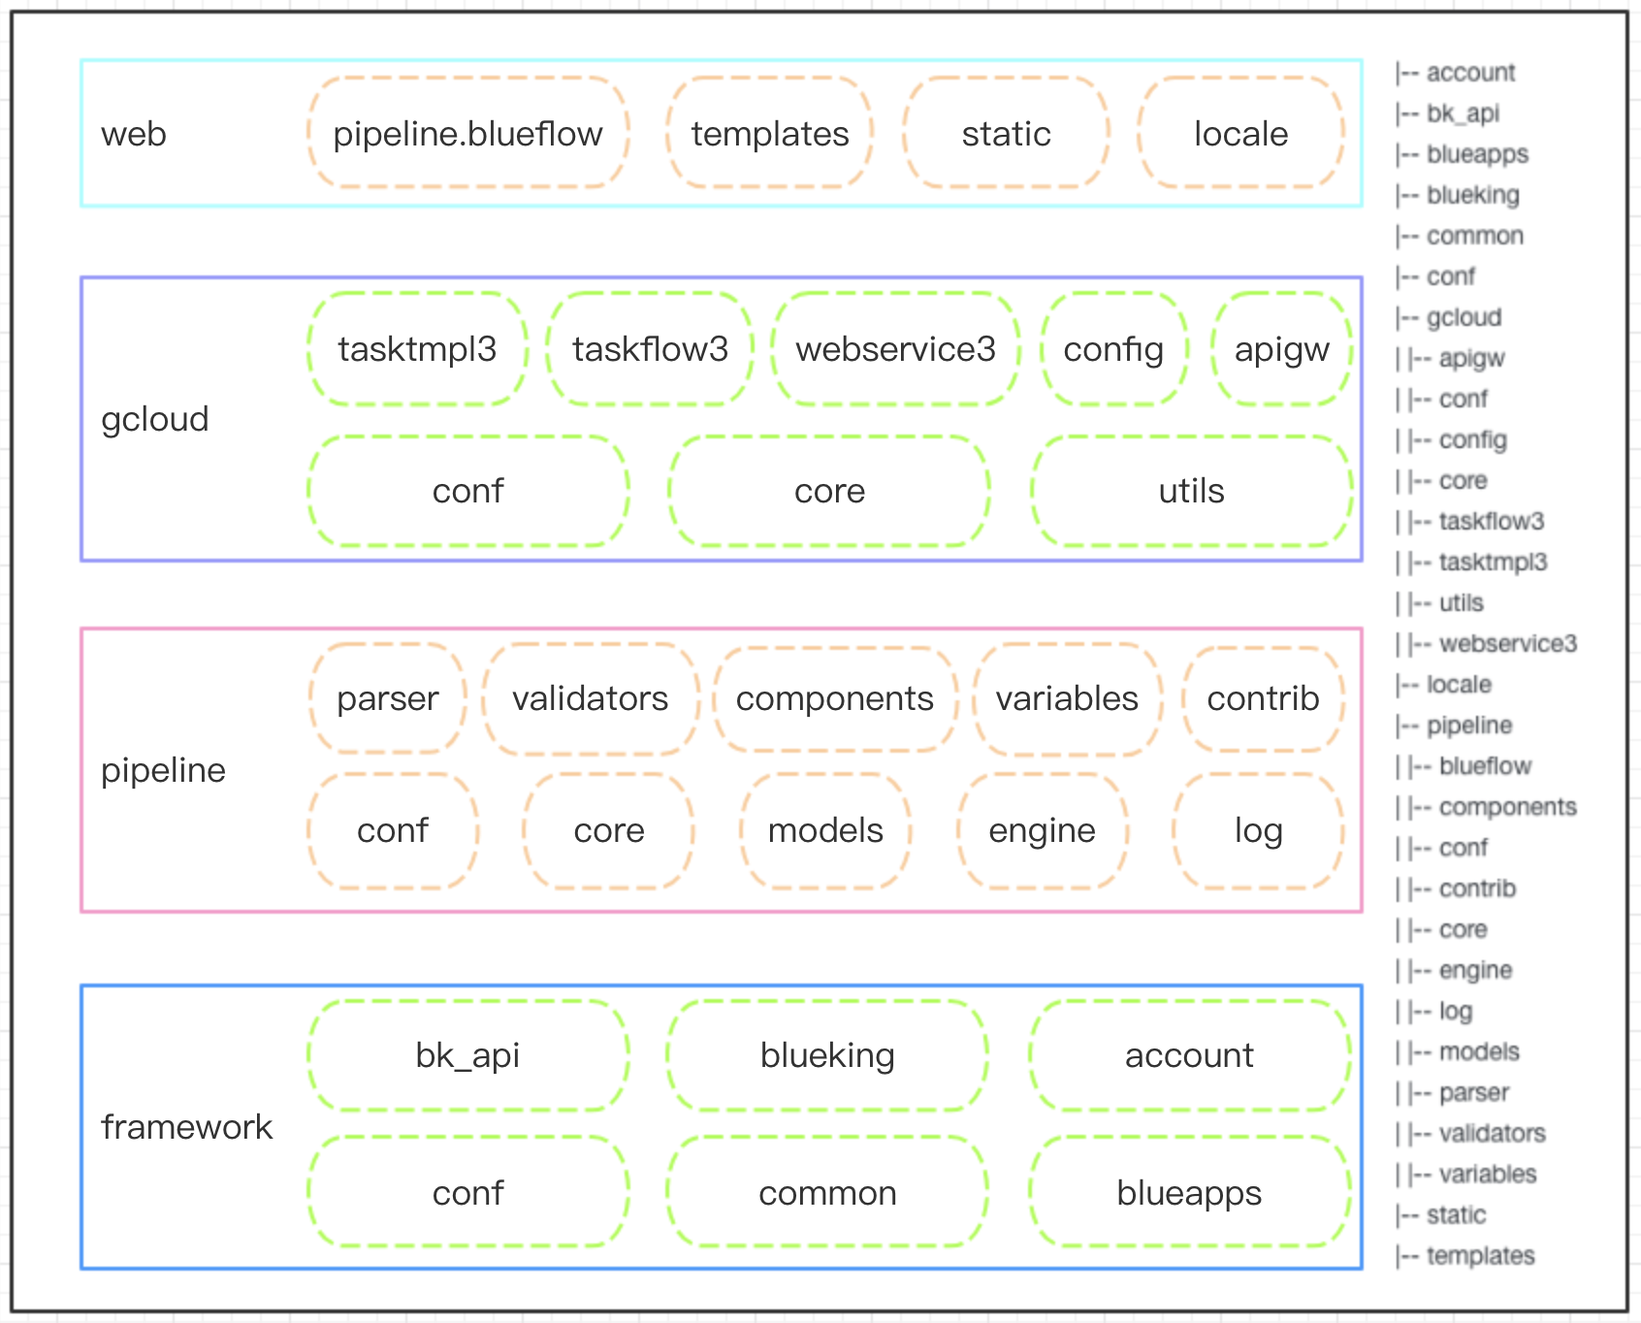
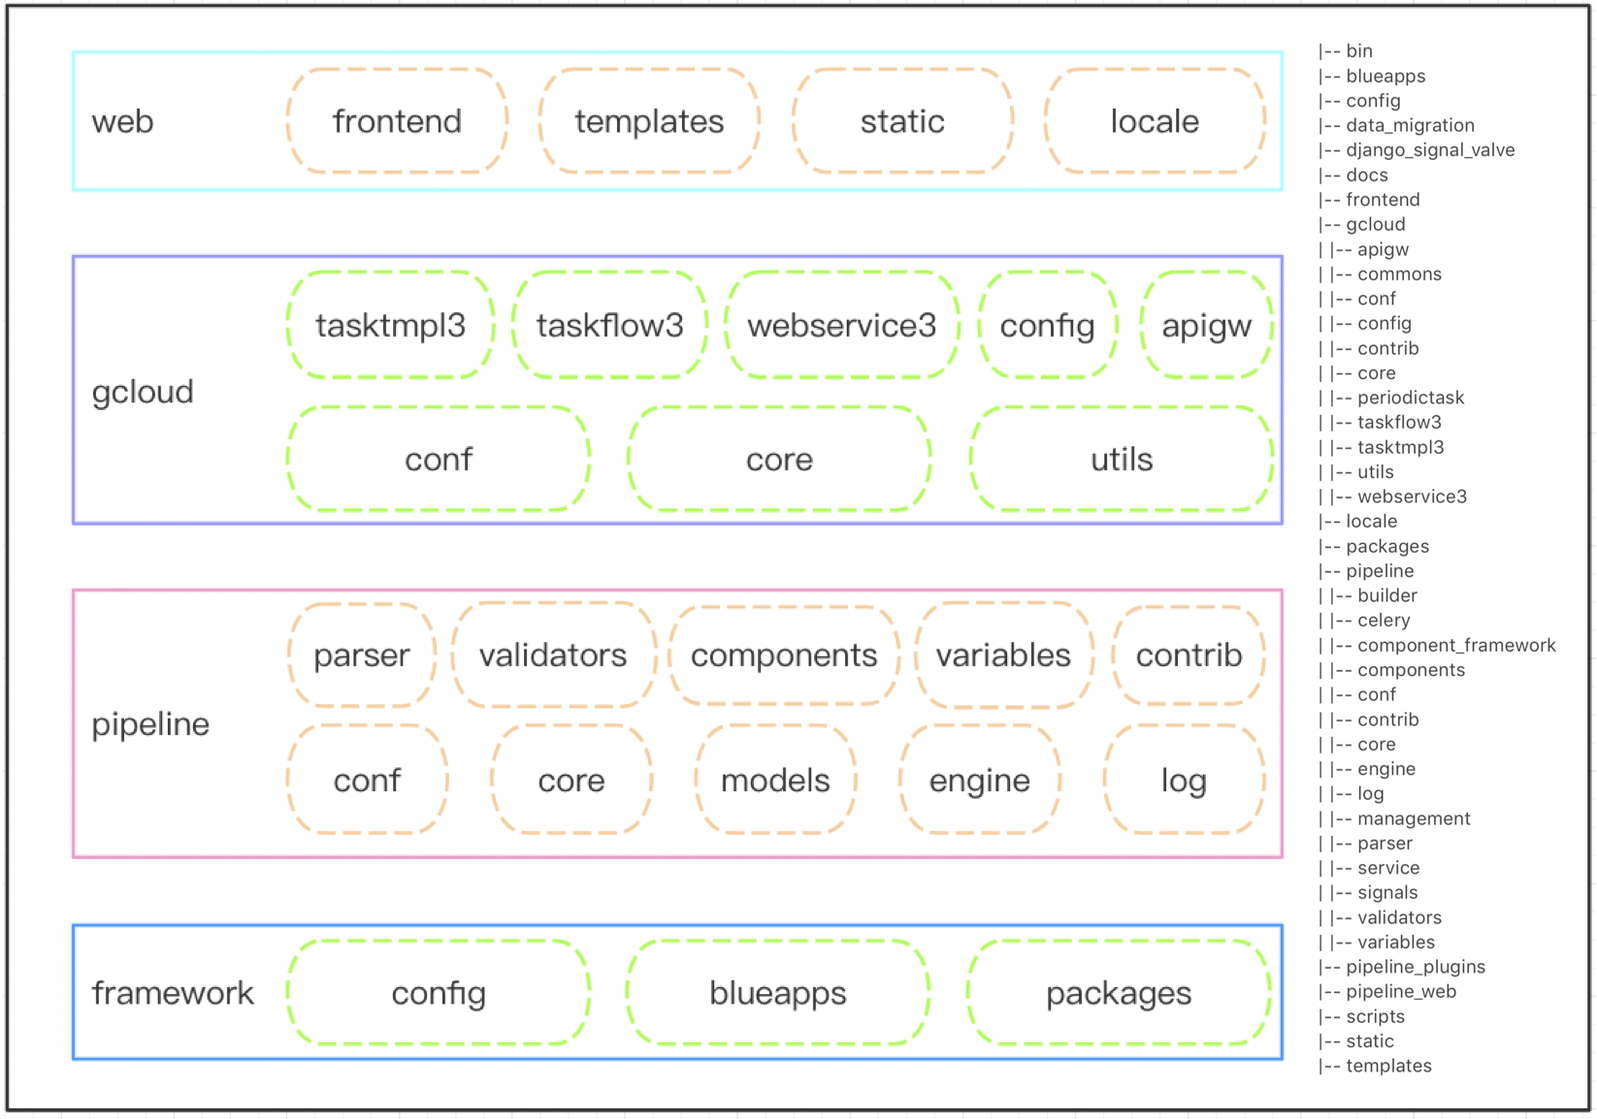
improve: 前端项目工程文件目录修改后文档同步 #153

Changed region(s): [[0.0, 0.0, 1.0, 0.9983]]

diff --git a/docs/install/dev_web.md b/docs/install/dev_web.md
@@ -4,22 +4,22 @@
 标准运维前端是用 vue 框架开发的，在本地开发时需要先安装 node.js，直接去官网下载软件并安装即可，地址为：https://nodejs.org/en/。
 
 ## 安装依赖包  
-进入 pipeline/blueflow/，执行以下命令安装。
+进入 frontend/desktop/，执行以下命令安装。
 ```bash
 npm install
 ```
 
 ## 修改配置文件  
-把 pipeline/blueflow/ 中的所有文件中的 {BK_PAAS_HOST} 换成你部署的蓝鲸社区版地址，如果你的应用 ID 修改过，请把所有文件中的 bk_sops 改成你的新应用 ID。
+把 frontend/desktop/ 中的所有文件中的 {BK_PAAS_HOST} 换成你部署的蓝鲸社区版地址，如果你的应用 ID 修改过，请把所有文件中的 bk_sops 改成你的新应用 ID。
 
 ## 启动前端工程  
-进入 bk_sops/src/pipeline/blueflow/，执行以下命令运行前端工程。默认启动的是 9000 端口，然后通过 http://dev.{BK_PAAS_HOST}:9000/ 访问前端应用，此时后端请求会自动转发到你启动的 django 工程，即 8000 端口。
+进入 bk_sops/src/frontend/desktop/，执行以下命令运行前端工程。默认启动的是 9000 端口，然后通过 http://dev.{BK_PAAS_HOST}:9000/ 访问前端应用，此时后端请求会自动转发到你启动的 django 工程，即 8000 端口。
 ```bash
 npm run dev
 ```
 
 ## 开发后打包  
-前端开发完成后，正式发布前需要先打包。还是在 pipeline/blueflow/ 目录下，执行如下命令打包，会自动在当前目录下生成 static/dist/ 目录，即打包好的前端资源。 
+前端开发完成后，正式发布前需要先打包。还是在 frontend/desktop/ 目录下，执行如下命令打包，会自动在当前目录下生成 static/dist/ 目录，即打包好的前端资源。 
 
 ```bash
 npm run build -- --SITE_URL="/o/bk_sops" --STATIC_ENV="open/prod"
@@ -29,6 +29,6 @@ npm run build -- --SITE_URL="/o/bk_sops" --STATIC_ENV="open/prod"
 前端打包后，需要在工程目录下运行如下命令收集静态资源到 static 下。
 ```bash
 rm -rf static/open static/images
-mv pipeline/blueflow/static/open static/
-mv pipeline/blueflow/static/images static/
+mv frontend/desktop/static/open static/
+mv frontend/desktop/static/images static/
 ```

diff --git a/docs/overview/code_structure.md b/docs/overview/code_structure.md
@@ -6,21 +6,15 @@
 
 - framework
 
-  蓝鲸基于 django 框架的二次封装架构，主要提供 saas 运营在蓝鲸 paas 上的基础配置和服务。
+  蓝鲸基于 django 框架的二次封装架构，主要提供 SaaS 运营在蓝鲸 PaaS 上的基础配置和服务。
 
-  conf：工程各部署环境配置，如本地环境、测试环境、正式环境。
+  config：工程各部署环境配置，如本地环境、测试环境、正式环境，以及路由配置。
 
-  common：主要是一些公共函数。
+  blueapps：新版开发框架核心模块，包括蓝鲸统一登录、鉴权、中间件和公共函数。
 
-  blueapps：也是一些公共函数，单独作为一个模块主要是为了向后兼容新版开发框架。
+  packages：蓝鲸 API Gateway SDK，包括配置平台、作业平台等提供的API。
 
-  bk_api：蓝鲸 paas 提供的 API。
-
-  blueking：蓝鲸 API Gateway SDK，包括配置平台、作业平台等提供的API。
-
-  account：蓝鲸统一登录和鉴权。
-
-- pipeline
+- pipeline、pipeline_web、pipeline_plugins
 
   自研的流程引擎框架，主要包含任务流程编排页面和任务流程执行服务。
 
@@ -38,11 +32,15 @@
 
   validators：数据校验，如环状结构检测和数据合法性校验。
 
-  components：原子框架和原子定义。
+  component_framework：插件框架和插件定义。
 
   variables：全局变量定义。
 
   contrib：扩展功能，如数据统计和前端 API。
+  
+  pipeline_web：前端数据适配层，支持前端画布生成的流程数据。
+  
+  pipeline_plugins：标准运维官方插件库和全局自定义变量。
 
 - gcloud
 
@@ -68,9 +66,9 @@
 
   前端资源，包括 webpack 配置和静态资源。
 
-  pipeline.blueflow：主要包括流程编排 pipeline/blueflow 模块，该模块是基于 vue 实现的。
+  frontend：主要包括流程编排 desktop 模块，该模块是基于 vue 实现的。
 
-  static：原子 components 和变量 variables 的前端定义文件，都放在各自模块的 static 目录下。
+  static：插件 components 和变量 variables 的前端定义文件，都放在各自模块的 static 目录下。
 
   templates：包含首页和 django admin 需要的页面。
 

diff --git a/docs/wiki/home.md b/docs/wiki/home.md
@@ -2,7 +2,7 @@
 # 标准运维，一套成熟稳定的流程编排调度引擎！
 
 ## 导读
->标准运维是腾讯蓝鲸体系中的一款SaaS产品，它助力运维实现跨系统的调度自动化。通过一套成熟稳定的流程编排调度引擎，基于蓝鲸PaaS平台的API网关服务对接企业内部各个系统API的能力，把在多系统间切换的工作模式整合到一个流程中，不仅可以将腾讯蓝鲸智云体系内的服务（如：配置平台、作业平台、通知服务等）进行整合，而且提供了自定义原子开发能力，让用户可以将自己企业内独有的系统接入并整合，实现一键自动化调度。
+>标准运维是腾讯蓝鲸体系中的一款SaaS产品，它助力运维实现跨系统的调度自动化。通过一套成熟稳定的流程编排调度引擎，基于蓝鲸PaaS平台的API网关服务对接企业内部各个系统API的能力，把在多系统间切换的工作模式整合到一个流程中，不仅可以将腾讯蓝鲸智云体系内的服务（如：配置平台、作业平台、通知服务等）进行整合，而且提供了自定义插件开发能力，让用户可以将自己企业内独有的系统接入并整合，实现一键自动化调度。
 ![](https://github.com/Tencent/bk-sops/blob/master/docs/wiki/img/wiki_product.png)
 
 ## 功能特性
@@ -44,7 +44,7 @@
 说明：  
 1、腾讯蓝鲸是一个体系化产品，需要各产品整体配合使用，才能发挥最大的功能价值；  
 2、社区版中，目前开源的产品有：配置平台、PaaS平台、标准运维；  
-3、配置平台、PaaS平台可以作为原子平台单独部署使用；  
+3、配置平台、PaaS平台可以作为插件平台单独部署使用；  
 4、标准运维必须跟整个体系配合使用。
 
 开源产品链接  

diff --git a/docs/apidoc/zh_hans/create_periodic_task.md b/docs/apidoc/zh_hans/create_periodic_task.md
@@ -243,7 +243,7 @@
 | ------------ | ---------- | ------------------------------ |
 |  start_event      |    dict    |      开始节点信息     |
 |  end_event      |    dict    |      结束节点信息    |
-|  activities      |    dict    |      任务节点（原子和子流程）信息    |
+|  activities      |    dict    |      任务节点（标准插件和子流程）信息    |
 |  gateways      |    dict    |      网关节点（并行网关、分支网关和汇聚网关）信息    |
 |  flows      |    dict    |     顺序流（节点连线）信息    |
 |  constants      |    dict    |  全局变量信息，详情见下面    |
@@ -261,7 +261,7 @@
 |  name      |    string    |      变量名字    |
 |  index      |    int    |      变量在模板中的显示顺序    |
 |  desc      |    string    |      变量说明   |
-|  source_type      |    string    |      变量来源, 取值范围 custom: 自定义变量，component_inputs: 从原子输入参数勾选，component_outputs：从原子输出结果中勾选   |
+|  source_type      |    string    |      变量来源, 取值范围 custom: 自定义变量，component_inputs: 从标准插件输入参数勾选，component_outputs：从标准插件输出结果中勾选   |
 |  custom_type      |    string    |      source_type=custom 时有效，自定义变量类型， 取值范围 input: 输入框，textarea: 文本框，datetime: 日期时间，int: 整数|
-|  source_tag      |    string    |      source_type=component_inputs/component_outputs 时有效，变量的来源原子   |
+|  source_tag      |    string    |      source_type=component_inputs/component_outputs 时有效，变量的来源标准插件   |
 |  source_info   |   dict  |  source_type=component_inputs/component_outputs 时有效，变量的来源节点信息 |

diff --git a/docs/apidoc/zh_hans/get_periodic_task_info.md b/docs/apidoc/zh_hans/get_periodic_task_info.md
@@ -256,7 +256,7 @@
 | ------------ | ---------- | ------------------------------ |
 |  start_event      |    dict    |      开始节点信息     |
 |  end_event      |    dict    |      结束节点信息    |
-|  activities      |    dict    |      任务节点（原子和子流程）信息    |
+|  activities      |    dict    |      任务节点（标准插件和子流程）信息    |
 |  gateways      |    dict    |      网关节点（并行网关、分支网关和汇聚网关）信息    |
 |  flows      |    dict    |     顺序流（节点连线）信息    |
 |  constants      |    dict    |  全局变量信息，详情见下面    |
@@ -274,7 +274,7 @@
 |  name      |    string    |      变量名字    |
 |  index      |    int    |      变量在模板中的显示顺序    |
 |  desc      |    string    |      变量说明   |
-|  source_type      |    string    |      变量来源, 取值范围 custom: 自定义变量，component_inputs: 从原子输入参数勾选，component_outputs：从原子输出结果中勾选   |
+|  source_type      |    string    |      变量来源, 取值范围 custom: 自定义变量，component_inputs: 从标准插件输入参数勾选，component_outputs：从标准插件输出结果中勾选   |
 |  custom_type      |    string    |      source_type=custom 时有效，自定义变量类型， 取值范围 input: 输入框，textarea: 文本框，datetime: 日期时间，int: 整数|
-|  source_tag      |    string    |      source_type=component_inputs/component_outputs 时有效，变量的来源原子   |
+|  source_tag      |    string    |      source_type=component_inputs/component_outputs 时有效，变量的来源标准插件   |
 |  source_info   |   dict  |  source_type=component_inputs/component_outputs 时有效，变量的来源节点信息 |

diff --git a/docs/apidoc/zh_hans/create_task.md b/docs/apidoc/zh_hans/create_task.md
@@ -229,7 +229,7 @@
 |-----------|----------|-----------|
 |  start_event      |    dict    |      开始节点信息     |
 |  end_event      |    dict    |      结束节点信息    |
-|  activities      |    dict    |      任务节点（原子和子流程）信息    |
+|  activities      |    dict    |      任务节点（标准插件和子流程）信息    |
 |  gateways      |    dict    |      网关节点（并行网关、分支网关和汇聚网关）信息    |
 |  flows      |    dict    |     顺序流（节点连线）信息    |
 |  constants      |    dict    |  全局变量信息，详情见下面    |
@@ -247,7 +247,7 @@
 |  name      |    string    |      变量名字    |
 |  index      |    int    |      变量在模板中的显示顺序    |
 |  desc      |    string    |      变量说明   |
-|  source_type      |    string    |      变量来源, 取值范围 custom: 自定义变量，component_inputs: 从原子输入参数勾选，component_outputs：从原子输出结果中勾选   |
+|  source_type      |    string    |      变量来源, 取值范围 custom: 自定义变量，component_inputs: 从标准插件输入参数勾选，component_outputs：从标准插件输出结果中勾选   |
 |  custom_type      |    string    |      source_type=custom 时有效，自定义变量类型， 取值范围 input: 输入框，textarea: 文本框，datetime: 日期时间，int: 整数|
-|  source_tag      |    string    |      source_type=component_inputs/component_outputs 时有效，变量的来源原子   |
+|  source_tag      |    string    |      source_type=component_inputs/component_outputs 时有效，变量的来源标准插件   |
 |  source_info   |   dict  |  source_type=component_inputs/component_outputs 时有效，变量的来源节点信息 |

diff --git a/docs/apidoc/zh_hans/get_template_info.md b/docs/apidoc/zh_hans/get_template_info.md
@@ -226,7 +226,7 @@
 |-----------|----------|-----------|
 |  start_event      |    dict    |      开始节点信息     |
 |  end_event      |    dict    |      结束节点信息    |
-|  activities      |    dict    |      任务节点（原子和子流程）信息    |
+|  activities      |    dict    |      任务节点（标准插件和子流程）信息    |
 |  gateways      |    dict    |      网关节点（并行网关、分支网关和汇聚网关）信息    |
 |  flows      |    dict    |     顺序流（节点连线）信息    |
 |  constants      |    dict    |  全局变量信息，详情见下面    |
@@ -244,7 +244,7 @@
 |  name      |    string    |      变量名字    |
 |  index      |    int    |      变量在模板中的显示顺序    |
 |  desc      |    string    |      变量说明   |
-|  source_type  | string   |      变量来源, 取值范围 custom: 自定义变量，component_inputs: 从原子输入参数勾选，component_outputs：从原子输出结果中勾选   |
+|  source_type  | string   |      变量来源, 取值范围 custom: 自定义变量，component_inputs: 从标准插件输入参数勾选，component_outputs：从标准插件输出结果中勾选   |
 |  custom_type  | string   |      source_type=custom 时有效，自定义变量类型， 取值范围 input: 输入框，textarea: 文本框，datetime: 日期时间，int: 整数|
-|  source_tag   | string   |      source_type=component_inputs或component_outputs 时有效，变量的来源原子   |
+|  source_tag   | string   |      source_type=component_inputs或component_outputs 时有效，变量的来源标准插件   |
 |   source_info | dict    |  source_type=component_inputs或component_outputs 时有效，变量的来源节点信息  |

diff --git a/docs/overview/architecture.md b/docs/overview/architecture.md
@@ -5,10 +5,10 @@
 这是标准运维的逻辑架构图，可以分为四层：
 
 - API 网关层
-主要负责通过API网关和第三方平台进行交互，标准运维原子的实际执行就是通过这一层把请求分发给依赖的系统。
+主要负责通过API网关和第三方平台进行交互，标准运维插件的实际执行就是通过这一层把请求分发给依赖的系统。
 - 流程引擎层
-负责解析上层的任务实例，映射节点原子对应的服务，并通过底层的蓝鲸API网关调用其他系统的API（如配置平台的创建集群，作业平台的快速执行脚本等），流程引擎还包括了具体的任务执行引擎和流程控制、上下文管理等模块。
+负责解析上层的任务实例，映射节点插件对应的服务，并通过底层的蓝鲸API网关调用其他系统的API（如配置平台的创建集群，作业平台的快速执行脚本等），流程引擎还包括了具体的任务执行引擎和流程控制、上下文管理等模块。
 - 任务管理层
-主要对应标准运维的任务编排和任务控制功能，任务编排包含基础单元原子框架和原子展示层，任务控制包括创建任务实例的模板校验和参数校验，以及任务实例执行时给用户提供的操作接口如暂停、继续、撤销任务等。
+主要对应标准运维的任务编排和任务控制功能，任务编排包含基础单元插件框架和插件展示层，任务控制包括创建任务实例的模板校验和参数校验，以及任务实例执行时给用户提供的操作接口如暂停、继续、撤销任务等。
 - 接入层
 包含权限控制、API接口和数据统计等。

diff --git a/docs/wiki/faq.md b/docs/wiki/faq.md
@@ -1,8 +1,8 @@
-### 标准运维原子支持用户接入企业内IT系统吗？  
-> 支持，接入方式请参考“附录3：原子开发”。
+### 标准运维插件支持用户接入企业内IT系统吗？  
+> 支持，接入方式请参考“附录3：标准插件开发”。
 
 ### 标准运维点击开始执行任务后报错：taskflow[id=1] get status error: node(nodee37e20…c7fb131) does not exist, may have not by executed，并且在任务列表中查看任务状态是“未知”，可能是什么原因？  
 > 标准运维执行引擎依赖于蓝鲸的RabbitMQ服务和App启动的celery进程，请登录服务器确认服务已启动并正常运行，可以查看App的celery.log日志文件帮助定位问题原因。
 
-### 标准运维能执行任务，但是原子节点报错：Trackback…TypeError:int() argument must be a string or a number,not ‘NoneType’，可能是什么原因？  
-> 标准运维任务流程的执行状态和原子输入、输出等信息缓存依赖Redis服务，所以首次部署请务必按照“标准运维部署文档”，配置Redis环境变量后重新部署。
+### 标准运维能执行任务，但是插件节点报错：Trackback…TypeError:int() argument must be a string or a number,not ‘NoneType’，可能是什么原因？  
+> 标准运维任务流程的执行状态和插件输入、输出等信息缓存依赖Redis服务，所以首次部署请务必按照“标准运维部署文档”，配置Redis环境变量后重新部署。

diff --git a/docs/apidoc/zh_hans/modify_constants_for_periodic_task.md b/docs/apidoc/zh_hans/modify_constants_for_periodic_task.md
@@ -87,7 +87,7 @@
 |  name      |    string    |      变量名字    |
 |  index      |    int    |      变量在模板中的显示顺序    |
 |  desc      |    string    |      变量说明   |
-|  source_type      |    string    |      变量来源, 取值范围 custom: 自定义变量，component_inputs: 从原子输入参数勾选，component_outputs：从原子输出结果中勾选   |
+|  source_type      |    string    |      变量来源, 取值范围 custom: 自定义变量，component_inputs: 从标准插件输入参数勾选，component_outputs：从标准插件输出结果中勾选   |
 |  custom_type      |    string    |      source_type=custom 时有效，自定义变量类型， 取值范围 input: 输入框，textarea: 文本框，datetime: 日期时间，int: 整数|
-|  source_tag      |    string    |      source_type=component_inputs/component_outputs 时有效，变量的来源原子   |
+|  source_tag      |    string    |      source_type=component_inputs/component_outputs 时有效，变量的来源标准插件   |
 |  source_info   |   dict  |  source_type=component_inputs/component_outputs 时有效，变量的来源节点信息 |

diff --git a/docs/install/source_code_deploy.md b/docs/install/source_code_deploy.md
@@ -6,13 +6,13 @@
 
 ## 打包并收集前端静态资源
 1）安装依赖包  
-进入 pipeline/blueflow/，执行以下命令安装
+进入 frontend/desktop/，执行以下命令安装
 ```bash
 npm install
 ```
 
 2）本地打包
-在 pipeline/blueflow/ 目录下，继续执行以下命令打包前端静态资源
+在 frontend/desktop/ 目录下，继续执行以下命令打包前端静态资源
 ```bash
 npm run build -- --STATIC_ENV=dev
 ```
@@ -33,7 +33,7 @@ python manage.py collectstatic --noinput
 
 
 ## 开通 API 白名单
-手动在你部署的蓝鲸社区版的中控机执行如下命令，开通标准运维访问蓝鲸PaaS平台API网关的白名单，以便标准运维原子可以正常调用 API。
+手动在你部署的蓝鲸社区版的中控机执行如下命令，开通标准运维访问蓝鲸PaaS平台API网关的白名单，以便标准插件可以正常调用 API。
 ```bash
 source /data/install/utils.fc
 add_app_token bk-sops-ce "$(_app_token bk-sops-ce)" "标准运维定制版"

diff --git a/docs/install/dev_deploy.md b/docs/install/dev_deploy.md
@@ -78,13 +78,13 @@ python manage.py createcachetable django_cache
 ## 打包并收集前端静态资源
 
 1）安装依赖包  
-进入 pipeline/blueflow/，执行以下命令安装
+进入 frontend/desktop/，执行以下命令安装
 ```bash
 npm install
 ```
 
 2）本地打包
-在 pipeline/blueflow/ 目录下，继续执行以下命令打包前端静态资源
+在 frontend/desktop/ 目录下，继续执行以下命令打包前端静态资源
 ```bash
 npm run build -- --STATIC_ENV=dev
 ```
@@ -98,8 +98,8 @@ python manage.py collectstatic --noinput
 前端资源文件需要单独拷贝收集，执行如下命令
 ```bash
 rm -rf static/dev static/images
-mv pipeline/blueflow/static/dev static/
-mv pipeline/blueflow/static/images static/
+mv frontend/desktop/static/dev static/
+mv frontend/desktop/static/images static/
 ```
 
 
